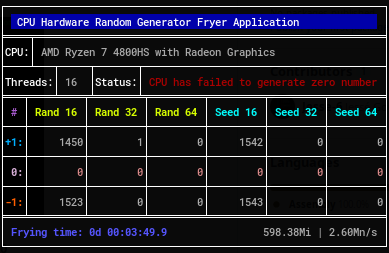
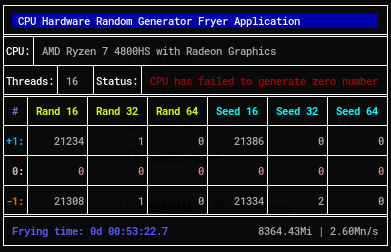
Update README.md and some minor code enhancements

Changed region(s): [[0.0, 0.0, 1.0, 0.9722], [0.4936, 0.6667, 0.5244, 0.6944], [0.4936, 0.5556, 0.5244, 0.5833]]

diff --git a/README.md b/README.md
@@ -3,6 +3,11 @@
 <p align="center">
     <img src="./screenshot/scr_AMD1.png" alt="Running on AMD processor screenshot" width=50% />
 </p>
+<p align="center">
+    <i>Bottom fields: run length (blue), iterations counter | numbers per second</i>
+</p>
+
+---
 
 #### Short history on AMD processor's RNG unit not being able to generate a 0
 
@@ -14,7 +19,7 @@ Its usage is quite simple, just run it from the terminal, and wait for the resul
 
 ## How it works?
 
-It presents itself to the user, and shortly then, starts running 2 threads to extract, as much as possible, numbers from hardware random number generator and counting 0, 1 and -1 occurences, in 16, 32 and 64 bit sizes. And the main thread periodically renders the result to screen, including the number of succesful iterations with the RNG unit. After detecting a zero, or after some iterations that not result in any zero being generated, a status message is shown at the screen, with either a success or failure result accordingly.
+It presents itself to the user, and shortly then, starts running 2 threads to extract, as much as possible, numbers from hardware random number generator and counting 0, 1 and -1 occurences, in 16, 32 and 64 bit sizes. And the main thread periodically renders the result to screen, including the number of successful iterations with the RNG unit. After detecting a zero, or after some iterations that not result in any zero being generated, a status message is shown at the screen, with either a success or failure result accordingly.
 
 Those 2 threads I've mentioned run at full speed to extract the maximum data as possible. They use a technique to lower the power consumption from CPUs they are using, but still they're 100% CPU usage threads anyway. Keep in mind that this is normal for this application so far.
 
